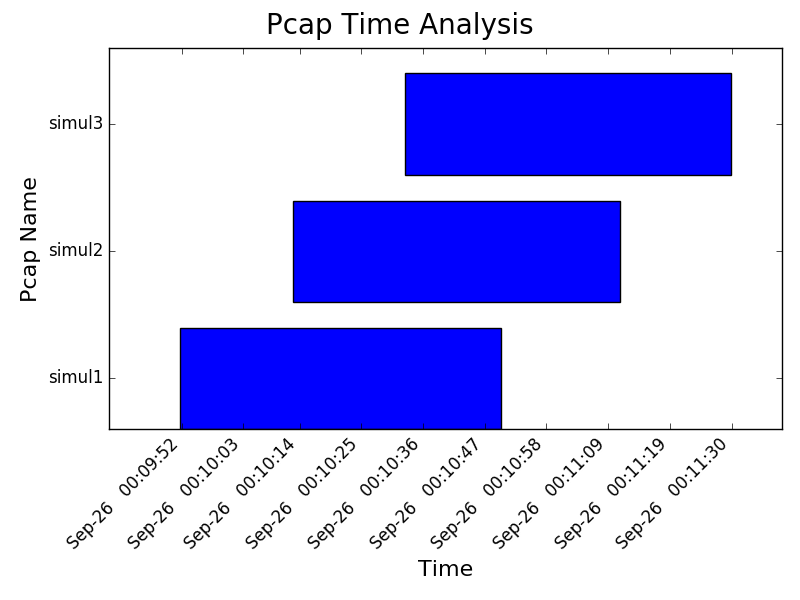
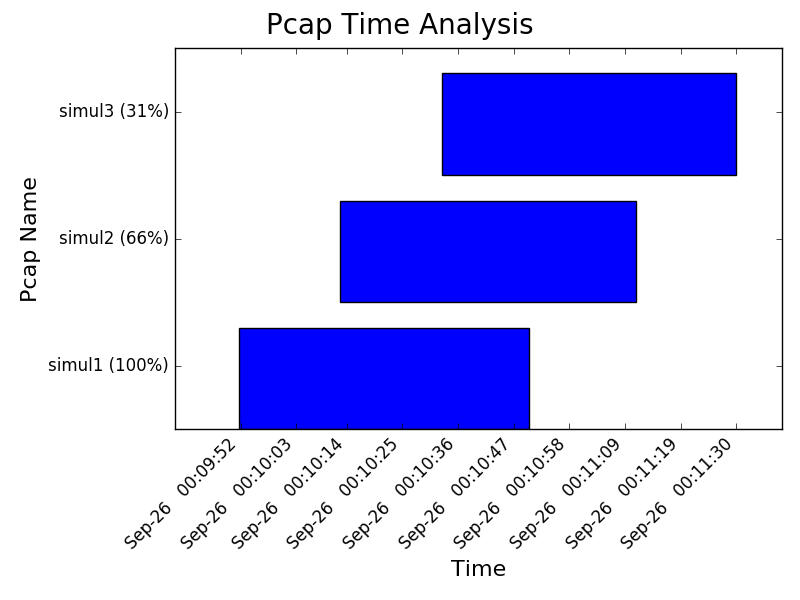
Finished adding comparison % to graph

diff --git a/src/parse_options.py b/src/parse_options.py
@@ -54,7 +54,7 @@ def parse_cli_args(args):
         if args['--compare']:  # Compare will double processing time.
             est_time *= 2
         if est_time > 1000:
-            print("\nEstimated time to complete is greater than 10 seconds. "
+            print("\nEstimated time to complete is greater than 10 seconds "
                   "(i.e. grab a cup of coffee).\n")
 
     return filenames
@@ -88,6 +88,8 @@ def get_pcap_data(filenames, has_compare_pcaps):
         filename_sans_path = os.path.splitext(os.path.basename(filename))[0]
         if has_compare_pcaps:
             pivot_file_similarity = get_pcap_similarity(pivot_pcap, filename)
+            if pivot_file_similarity == 0:
+                pivot_file_similarity = '0'  # So that a number% is shown.
         else:
             pivot_file_similarity = None
         pcap_data[filename_sans_path] = {
@@ -104,7 +106,7 @@ def get_pcap_similarity(pivot_pcap, other_pcap):
     """Compare the pivot pcap to another file.
 
     Take two packet captures and then compare each packet in one to each
-    packet in the other by IP ID and IP header checksum. Frames are not
+    packet in the other by IP ID and other filters. Frames are not
     considered as there is no good way to verify that one frame is the same
     as another. FCS is discarded by the capturing device and is not
     present in packet captures.
@@ -119,18 +121,19 @@ def get_pcap_similarity(pivot_pcap, other_pcap):
     """
     # Iterate over all packets with the given frame number.
     pcap_starttime = time.time()
-    print("-c flag selected. Comparison starting...")
+    print("--compare percent similar is starting... ", end='')
     pivot_raw_output = subprocess.check_output(
-        ['tshark -n -r ' + pivot_pcap +
-         ' -2 -Y ip -T fields -e ip.id -e ip.checksum'], shell=True)
-    pivot_pkts = str(pivot_raw_output.decode('utf8')).split('\n')
+        ['tshark -n -r ' + pivot_pcap + ' -2 -Y ip -T fields -e ip.id -e '
+         'ip.src -e ip.dst -e tcp.ack -e tcp.seq -e udp.srcport'], shell=True)
+    pivot_pkts = set(str(pivot_raw_output.decode('utf8')).split('\n'))
     other_raw_output = subprocess.check_output(
-        ['tshark -n -r ' + other_pcap +
-         ' -2 -Y ip -T fields -e ip.id -e ip.checksum'], shell=True)
-    other_pkts = str(other_raw_output.decode('utf8')).split('\n')
+        ['tshark -n -r ' + other_pcap + ' -2 -Y ip -T fields -e ip.id -e '
+         'ip.src -e ip.dst -e tcp.ack -e tcp.seq -e udp.srcport'], shell=True)
+    other_pkts = set(str(other_raw_output.decode('utf8')).split('\n'))
     total_count = len(pivot_pkts)
-    similarity_count = len(set(pivot_pkts).intersection(other_pkts))
+    same_pkts = set(pivot_pkts).intersection(other_pkts)
+    similarity_count = len(same_pkts)
     percent_same = round(100 * (similarity_count / total_count))
-    print("Comparison has taken", time.time() - pcap_starttime, 'seconds.')
+    print("and took", time.time() - pcap_starttime, 'seconds.')
 
     return percent_same

diff --git a/src/draw_graph.py b/src/draw_graph.py
@@ -46,7 +46,11 @@ def draw_graph(pcap_times, save_fmt, output_fmt):
         for pcap in sorted(pcap_times.keys()):
             start_times.append(pcap_times[pcap]['pcap_starttime'])
             end_times.append(pcap_times[pcap]['pcap_endtime'])
-            pcap_names.append(pcap)
+            similarity = ''
+            similarity_percent = pcap_times[pcap]['pivot_similarity']
+            if similarity_percent:
+                similarity = ' (' + str(similarity_percent) + '%)'
+            pcap_names.append(pcap + similarity)  # Add percentage if it exists
 
         fig, ax = plt.subplots()
 
@@ -81,7 +85,6 @@ def draw_graph(pcap_times, save_fmt, output_fmt):
         # Use 0.95 for top because tight_layout does not consider suptitle
         plt.tight_layout(rect=[0, 0, 1, 0.95])
         if save_fmt:
-            print(save_fmt)
             plt.savefig('pcap_graph.' + save_fmt, format=save_fmt)
             print(save_fmt, "file successfully created!")
         else:
@@ -90,8 +93,8 @@ def draw_graph(pcap_times, save_fmt, output_fmt):
 
 def make_text_not_war(pcap_times):
     """Make text given pcap times."""
-    result_string = '\nPCAP NAME        DATE 0  DATE $    TIME 0    TIME $' \
-                    + '      UTC 0' + 14*' ' + 'UTC $'
+    result_string = 'PCAP NAME            DATE 0  DATE $    TIME 0    ' \
+                    'TIME $      UTC 0' + 14*' ' + 'UTC $'
     for pcap in sorted(pcap_times.keys()):
         pcap_pretty_startdate = datetime.datetime.fromtimestamp(
             pcap_times[pcap]['pcap_starttime']).strftime('%b-%d')
@@ -103,12 +106,14 @@ def make_text_not_war(pcap_times):
             pcap_times[pcap]['pcap_endtime']).strftime('%H:%M:%S')
         if pcap_times[pcap]['pivot_similarity']:
             pcap_name_string = '(' + "{: >3}".format(
-                str(pcap_times[pcap]['pivot_similarity'])) + '%) ' + pcap
+                str(pcap_times[pcap]['pivot_similarity'])) + '%) ' + pcap[:11]
         else:
-            pcap_name_string = pcap
+            pcap_name_string = pcap[:18]  # Truncate if too long
 
-        result_string += \
-            "\n{: <16} {: <7} {: <9} {: <9} {: <11} {: <18} {: <18}".format(
+        # Formatter creates a bunch of columns aligned left with num spacing.
+        format_string = "\n{: <20} {: <7} " \
+                        "{: <9} {: <9} {: <11} {: <18} {: <18}"
+        result_string += format_string.format(
                 pcap_name_string,
                 pcap_pretty_startdate,
                 pcap_pretty_enddate,

diff --git a/pcap_bar_graph.py b/pcap_bar_graph.py
@@ -15,7 +15,7 @@
 """PcapGraph
 
 Usage:
-  pcapgraph <file>... [-f <format>] [-s] [-c]
+  pcapgraph <file>... [--format <format>] [-s] [-c]
   pcapgraph (-h | --help)
   pcapgraph (-v | --version)
 
@@ -24,7 +24,7 @@ Options:
                         ip.checksum to find the percent of packets that
                         match exactly. (See About for more details).
   -h, --help            Show this screen.
-  -f, --format          Output results as a file instead of a popup.
+      --format <format> Output results as a file instead of a popup.
   -s, --show            Print the graph to the screen. If the format 'txt' is
                         selected, print to stdout instead of a text file.
   -v, --version         Show PcapGraph's version.
